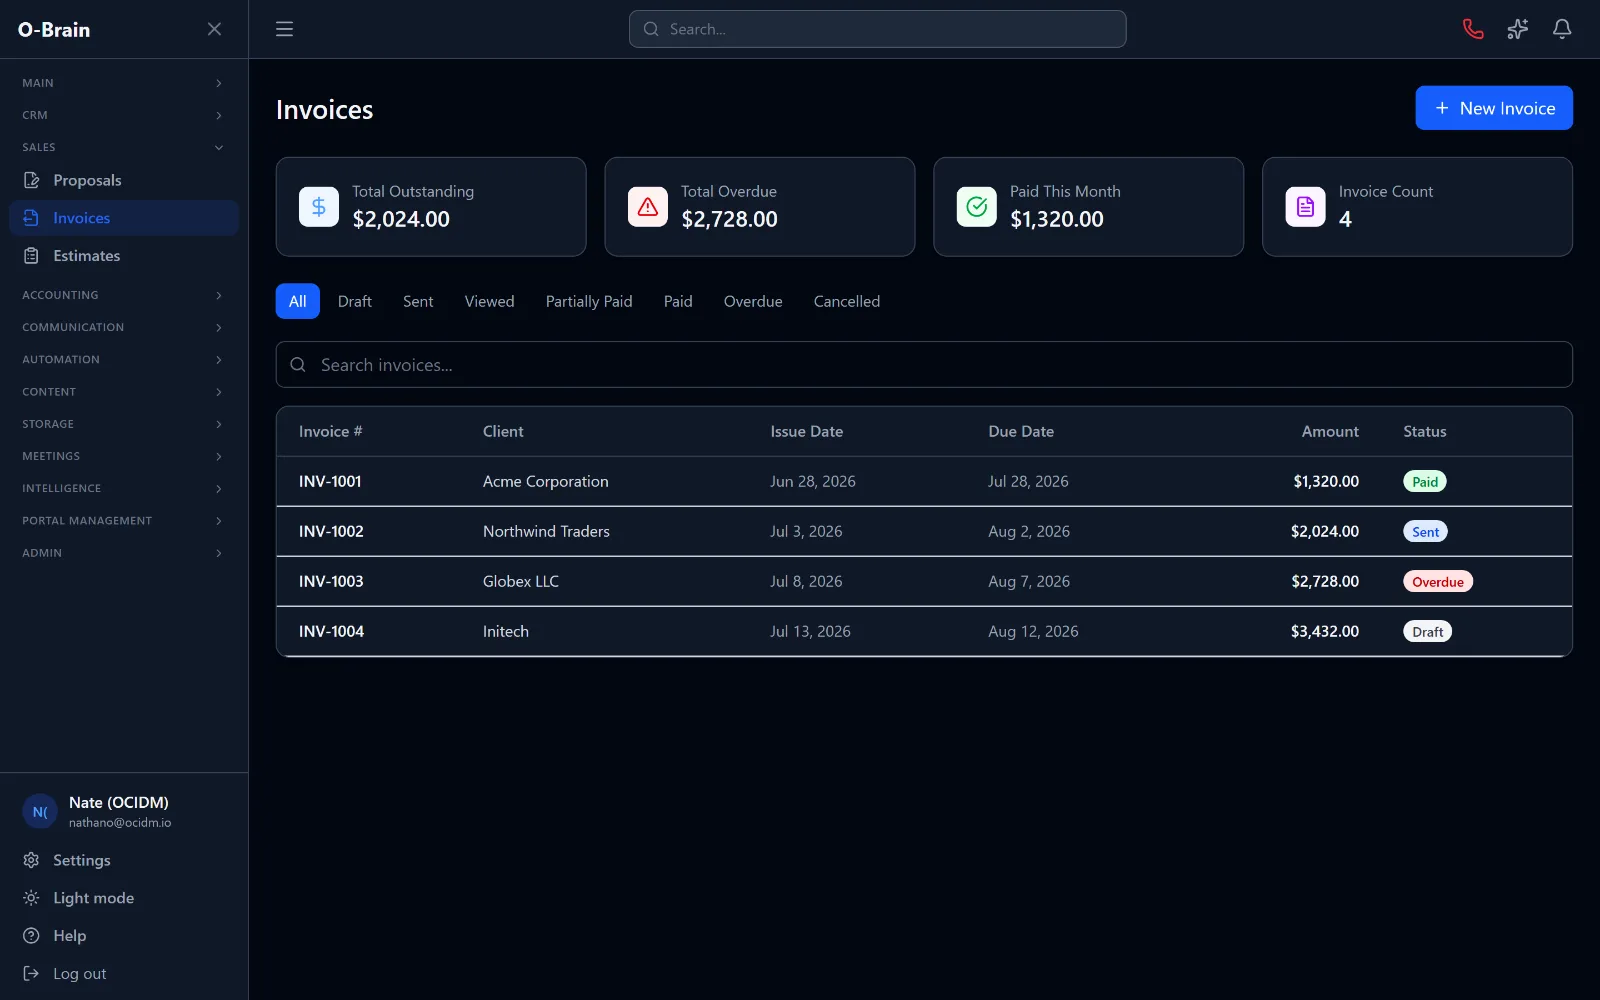
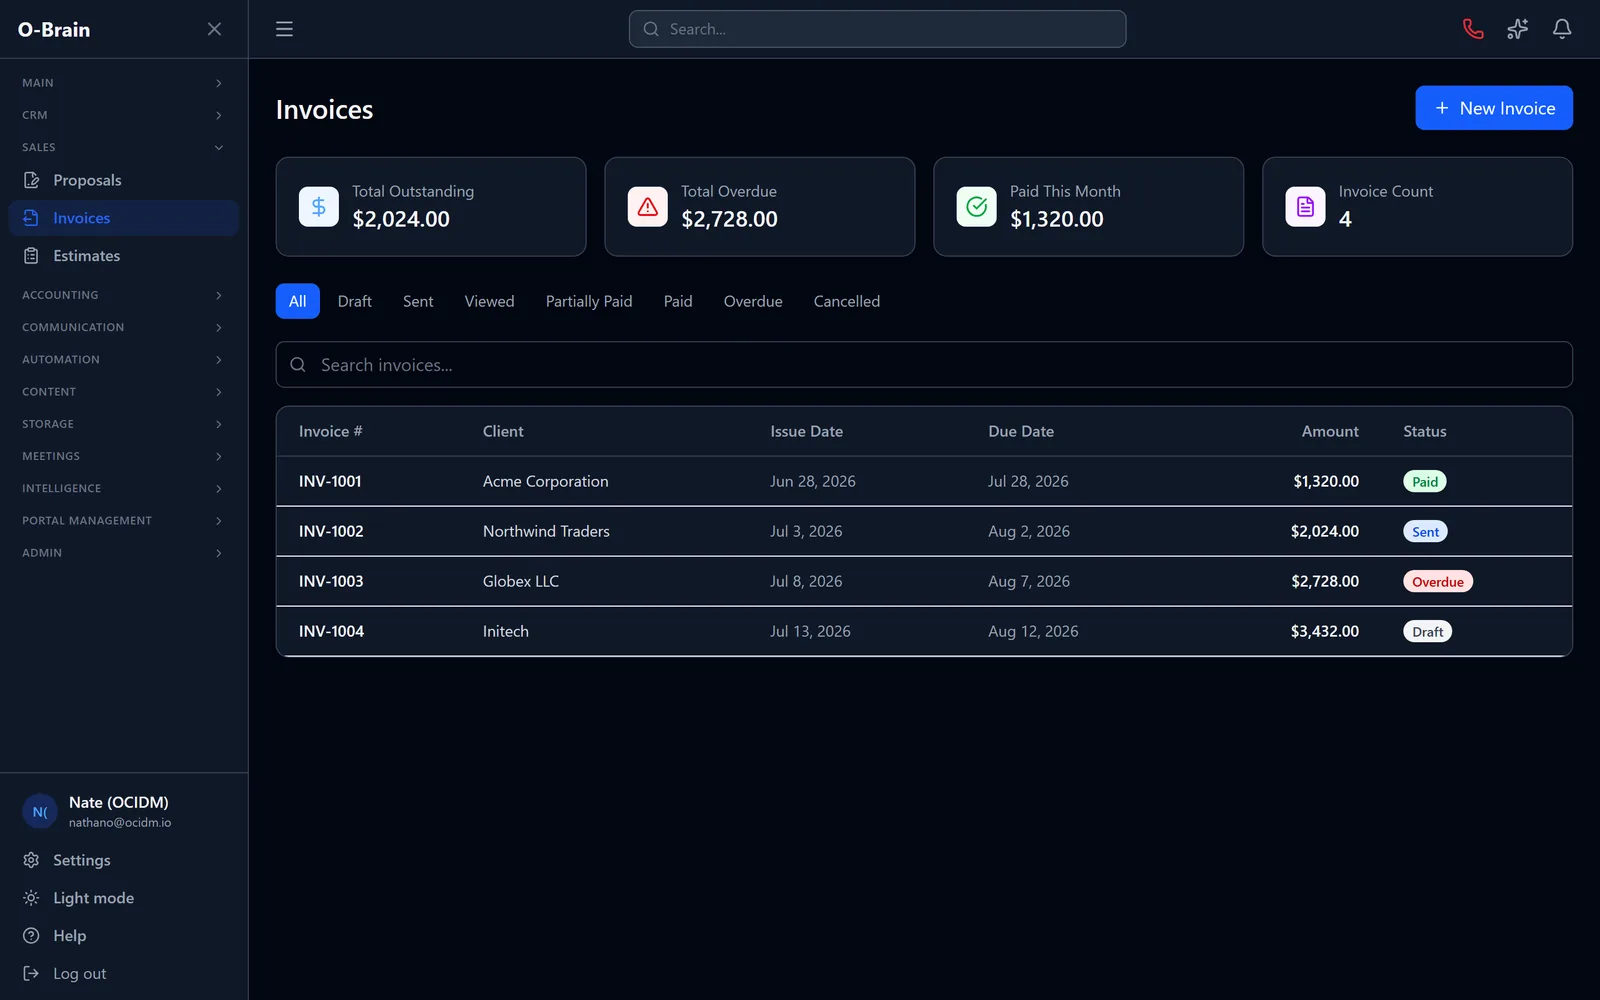
feat(sales): expand feature showcase to 31 real screenshots + refresh copy
The sales-page showcase covered 17 features; the product has grown well past
that. Wire in the full set of real product screenshots (from the seeded demo
workspace — no real client/financial data) and refresh copy to match today's
product.

- FEATURE_SHOTS: 17 -> 31, grouped by category, each with an accurate one-line
  benefit. Adds the accounting depth built recently — reconcile, live bank
  feeds (Plaid), email scanner, receipt capture, smart import, income,
  recurring, budgets — plus calendar, scheduling, sheets, slides, O-Brain AI
  and white-label.
- Images: 31 screenshots downscaled 2880x1800 -> 1600x1000 WebP (q82),
  ~1.0 MB total, lazy-loaded past the first. Refreshed the 17 existing shots to
  the same 16:10 crop.
- Copy: "25+ tools" -> "30+"; the "what do I get" FAQ now names the accounting
  suite (bank feeds, reconciliation, sales-tax reports); new FAQ on running
  personal + business money from one shared feed (owner's-draw tagging keeps
  business P&L and tax clean).

Verified in the browser: all 31 images load, tabs switch correctly, no console
errors, production build clean.

diff --git a/frontend/src/pages/SalesPage.tsx b/frontend/src/pages/SalesPage.tsx
@@ -167,23 +167,45 @@ const INTEGRATIONS = ['Stripe', 'Twilio', 'Gmail', 'Google Calendar', 'Plaid', '
  * real thing over the glow instead of letting a model repaint it.
  */
 const FEATURE_SHOTS = [
-  { key: 'dashboard', label: 'Dashboard', category: 'Overview', src: '/showcase/dashboard.webp', line: 'Your whole business at a glance — revenue, outstanding, meetings, approvals.' },
+  { key: 'dashboard', label: 'Dashboard', category: 'Overview', src: '/showcase/dashboard.webp', line: 'Your whole business at a glance — revenue, outstanding, meetings and approvals.' },
+  // CRM & sales
   { key: 'contacts', label: 'Contacts', category: 'CRM & sales', src: '/showcase/contacts.webp', line: 'Private per-employee books, shared only when you explicitly say so.' },
-  { key: 'pipeline', label: 'Pipeline', category: 'CRM & sales', src: '/showcase/pipeline.webp', line: 'Every deal staged from draft to won, totals per stage.' },
-  { key: 'proposals', label: 'Proposals', category: 'CRM & sales', src: '/showcase/proposals.webp', line: 'E-signature proposals that turn into invoices the moment they are won.' },
-  { key: 'invoices', label: 'Invoices', category: 'CRM & sales', src: '/showcase/invoices.webp', line: 'PDFs with a Stripe Pay Now button, reminders, partial payments, overdue detection.' },
-  { key: 'estimates', label: 'Estimates', category: 'CRM & sales', src: '/showcase/estimates.webp', line: 'Quotes that convert to invoices in one click when accepted.' },
-  { key: 'cashbook', label: 'Cashbook', category: 'Accounting', src: '/showcase/cashbook.webp', line: 'Every dollar in and out, with reconciliation against real bank feeds.' },
-  { key: 'expenses', label: 'Expenses', category: 'Accounting', src: '/showcase/expenses.webp', line: 'Categorized spending with approval flows and receipt capture.' },
-  { key: 'reports', label: 'Reports', category: 'Accounting', src: '/showcase/reports.webp', line: 'P&L, cash flow, tax and aging — always current, exportable.' },
-  { key: 'phone', label: 'Phone', category: 'Communication', src: '/showcase/phone.webp', line: 'Browser calling, voicemail transcripts, and a dial queue — no separate phone system.' },
+  { key: 'pipeline', label: 'Pipeline', category: 'CRM & sales', src: '/showcase/pipeline.webp', line: 'Every deal staged from draft to won, with live totals per stage.' },
+  { key: 'proposals', label: 'Proposals', category: 'CRM & sales', src: '/showcase/proposals.webp', line: 'E-signature proposals that turn into an invoice the moment they’re won.' },
+  { key: 'estimates', label: 'Estimates', category: 'CRM & sales', src: '/showcase/estimates.webp', line: 'Quotes that convert to an invoice in one click when accepted.' },
+  { key: 'invoices', label: 'Invoices', category: 'CRM & sales', src: '/showcase/invoices.webp', line: 'PDFs with a Stripe Pay Now button, reminders, partial payments and overdue detection.' },
+  // Accounting
+  { key: 'cashbook', label: 'Cashbook', category: 'Accounting', src: '/showcase/cashbook.webp', line: 'Every dollar in and out — with personal and business kept in separate books from the same feed.' },
+  { key: 'reconcile', label: 'Reconcile', category: 'Accounting', src: '/showcase/reconcile.webp', line: 'Match your books to the real bank balance and catch any drift instantly.' },
+  { key: 'bank-feeds', label: 'Bank feeds', category: 'Accounting', src: '/showcase/bank-feeds.webp', line: 'Live transactions pulled straight from the bank via Plaid, ready to categorize.' },
+  { key: 'email-scanner', label: 'Email scanner', category: 'Accounting', src: '/showcase/email-scanner.webp', line: 'Gmail invoices and receipts read, categorized and filed automatically.' },
+  { key: 'receipt-capture', label: 'Receipts', category: 'Accounting', src: '/showcase/receipt-capture.webp', line: 'Snap a receipt; the amount, vendor and tax are read and attached for you.' },
+  { key: 'smart-import', label: 'Smart import', category: 'Accounting', src: '/showcase/smart-import.webp', line: 'Drop in a CSV or PDF statement and it maps every row into your cashbook.' },
+  { key: 'expenses', label: 'Expenses', category: 'Accounting', src: '/showcase/expenses.webp', line: 'Categorized spending with approval flows and receipts attached.' },
+  { key: 'income', label: 'Income', category: 'Accounting', src: '/showcase/income.webp', line: 'Every payment received tracked against the client and invoice it belongs to.' },
+  { key: 'recurring', label: 'Recurring', category: 'Accounting', src: '/showcase/recurring.webp', line: 'Rent, subscriptions and retainers posted automatically on schedule.' },
+  { key: 'budgets', label: 'Budgets', category: 'Accounting', src: '/showcase/budgets.webp', line: 'Set a plan per category and watch actuals against it in real time.' },
+  { key: 'reports', label: 'Reports', category: 'Accounting', src: '/showcase/reports.webp', line: 'P&L, balance sheet, cash flow, sales tax and aging — always current, exportable.' },
+  // Communication
   { key: 'inbox', label: 'Inbox', category: 'Communication', src: '/showcase/inbox.webp', line: 'Every email and text thread in one unified inbox.' },
+  { key: 'phone', label: 'Phone', category: 'Communication', src: '/showcase/phone.webp', line: 'Browser calling, voicemail transcripts and a dial queue — no separate phone system.' },
+  // Meetings & scheduling
   { key: 'meetings', label: 'Meetings', category: 'Meetings', src: '/showcase/meetings.webp', line: 'Video rooms with AI transcription, summaries and action items.' },
-  { key: 'page-builder', label: 'Website', category: 'Content', src: '/showcase/page-builder.webp', line: 'AI-generated pages, published on a custom domain, with real analytics.' },
-  { key: 'forms', label: 'Forms', category: 'Content', src: '/showcase/forms.webp', line: 'Embeddable forms plus an inbound webhook — leads from your site land straight in the CRM.' },
-  { key: 'docs', label: 'Docs', category: 'Content', src: '/showcase/docs.webp', line: 'Collaborative docs, sheets and slides with live cursors — no Google account needed.' },
-  { key: 'drive', label: 'Drive', category: 'Storage', src: '/showcase/drive.webp', line: 'Cloud storage with folders, versions, and share-to-client links.' },
+  { key: 'calendar', label: 'Calendar', category: 'Scheduling', src: '/showcase/calendar.webp', line: 'Bookings and events, two-way synced with Google Calendar.' },
+  { key: 'scheduling', label: 'Scheduling', category: 'Scheduling', src: '/showcase/scheduling.webp', line: 'Shareable booking pages that drop straight into your calendar.' },
+  // Content
+  { key: 'docs', label: 'Docs', category: 'Content', src: '/showcase/docs.webp', line: 'Collaborative documents with live cursors — no Google account needed.' },
+  { key: 'sheets', label: 'Sheets', category: 'Content', src: '/showcase/sheets.webp', line: 'Spreadsheets with formulas, shared and edited in real time.' },
+  { key: 'slides', label: 'Slides', category: 'Content', src: '/showcase/slides.webp', line: 'Build and present decks without leaving the workspace.' },
+  { key: 'page-builder', label: 'Website', category: 'Content', src: '/showcase/page-builder.webp', line: 'AI-generated pages, published on your own domain, with real analytics.' },
+  { key: 'forms', label: 'Forms', category: 'Content', src: '/showcase/forms.webp', line: 'Embeddable forms and an inbound webhook — site leads land straight in the CRM.' },
+  // Storage
+  { key: 'drive', label: 'Drive', category: 'Storage', src: '/showcase/drive.webp', line: 'Cloud storage with folders, versions and share-to-client links.' },
+  // Automation & intelligence
   { key: 'workflows', label: 'Workflows', category: 'Automation', src: '/showcase/workflows.webp', line: '20+ triggers wired to real email, SMS, tag and webhook actions.' },
+  { key: 'intelligence', label: 'O-Brain AI', category: 'Intelligence', src: '/showcase/intelligence.webp', line: 'An assistant with the full context of your business — drafts, summaries and a monthly health score.' },
+  // Branding
+  { key: 'branding', label: 'White-label', category: 'Branding', src: '/showcase/branding.webp', line: 'Your logo, colors, fonts and domain across the whole workspace and client portal.' },
 ] as const
 
 /**
@@ -302,7 +324,11 @@ const PLANS: Plan[] = [
 const FAQS = [
   {
     q: 'What do I actually get?',
-    a: 'One login for the whole business: CRM, invoices and estimates, e-signature proposals, a cashbook with real financial reports, video meetings with AI notes, a browser phone with SMS, collaborative docs, sheets and slides, cloud drive, and an automation engine tying it together. Plans differ by published pages, storage and AI message quotas — not by locking away features.',
+    a: 'One login for the whole business: CRM, invoices and estimates, e-signature proposals, and a full accounting suite — cashbook, live bank feeds via Plaid, one-click reconciliation, receipt and email scanning, and P&L, balance-sheet and sales-tax reports that stay current. Plus video meetings with AI notes, a browser phone with SMS, collaborative docs, sheets and slides, cloud drive, and an automation engine tying it together. Plans differ by published pages, storage and AI message quotas — not by locking away features.',
+  },
+  {
+    q: 'Can I run personal and business money in one place?',
+    a: 'Yes. Tag any transaction from a shared bank feed as personal or business — personal items post as owner’s draw so they stay in your bank reconciliation but drop out of your P&L and tax totals, and land in a separate, private personal book. Your business numbers stay clean without you keeping two logins.',
   },
   {
     q: 'Can I control what each employee sees?',
@@ -547,7 +573,7 @@ export default function SalesPage() {
             meeting summary becomes the quote, the signed proposal becomes the invoice.
           </p>
           <div className="sp-counters">
-            <Counter target={25} suffix="+" label="built-in tools behind one login" />
+            <Counter target={30} suffix="+" label="built-in tools behind one login" />
             <Counter target={20} suffix="+" label="automation triggers doing your follow-up" />
             <Counter target={24} suffix="/7" label="background automation, always on" />
           </div>
